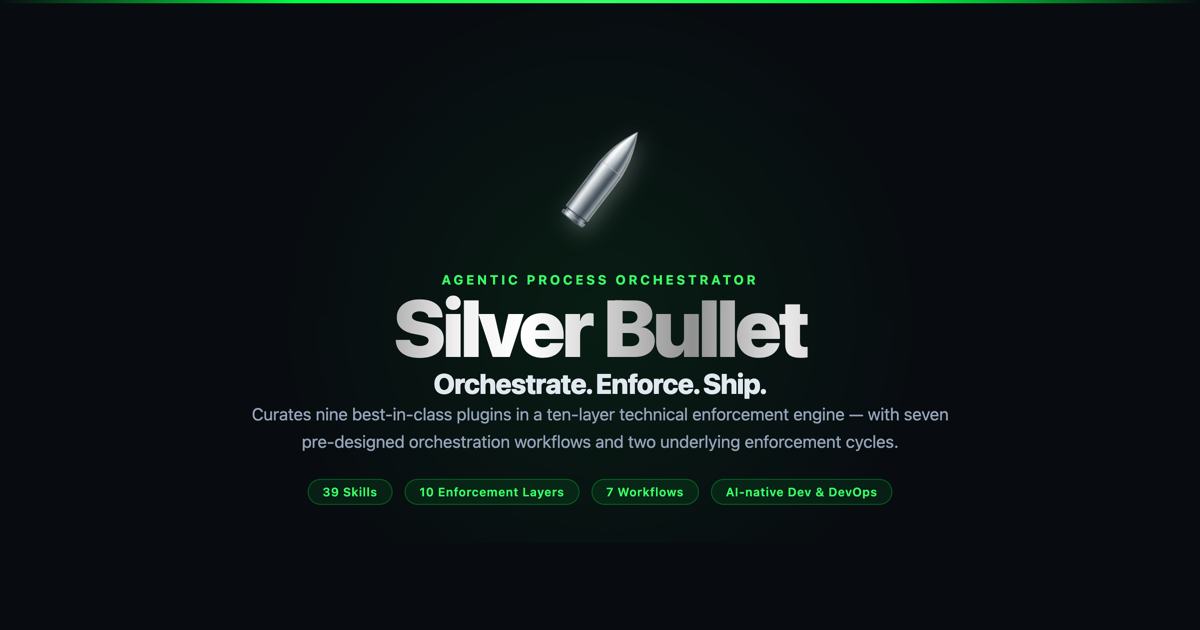
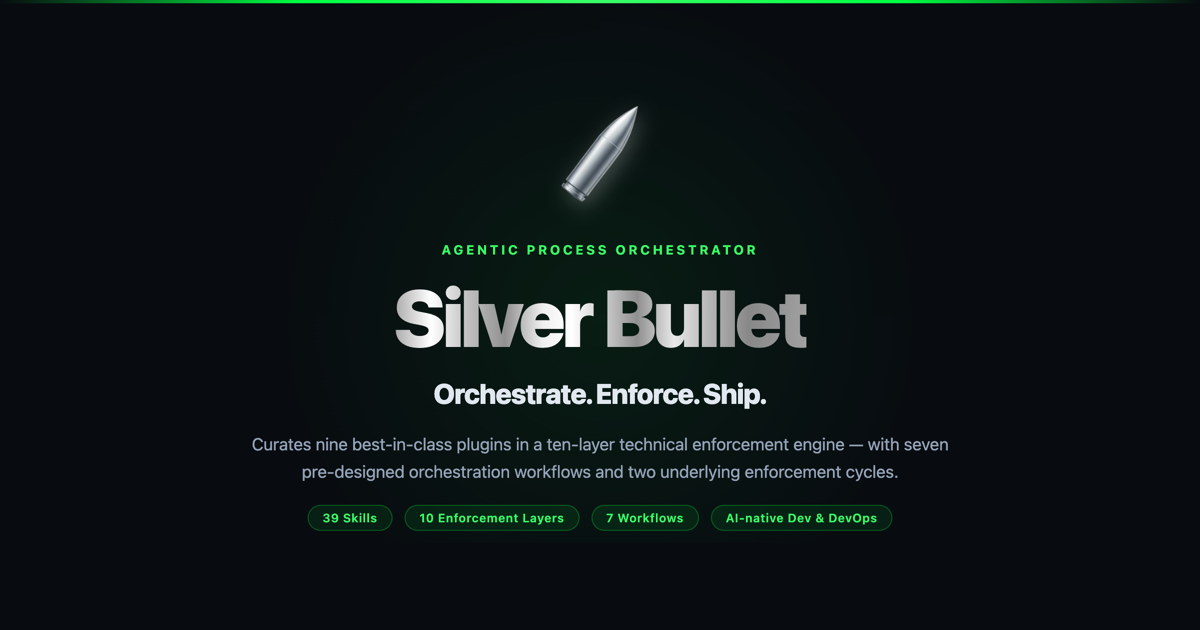
fix(site): increase vertical gaps in OG image
- Make .text a flex column so gap applies between all child elements
- Text gap: 20px between label, title, sub-heading, desc, pills
- Card gap: 28px between bullet and text block

Changed region(s): [[0.2158, 0.3921, 0.8017, 0.8444], [0.4625, 0.181, 0.555, 0.3619]]

diff --git a/site/og-card.html b/site/og-card.html
@@ -35,7 +35,7 @@
     flex-direction:column;
     align-items:center;
     justify-content:center;
-    gap:32px;
+    gap:28px;
     padding:0 80px;
     position:relative;
     z-index:1;
@@ -47,7 +47,7 @@
     flex-shrink:0;
     filter:drop-shadow(3px 6px 10px rgba(255,255,255,.25));
   }
-  .text{width:100%}
+  .text{width:100%;display:flex;flex-direction:column;align-items:center;gap:20px;}
 
   /* Label — like .hero-tagline-caps */
   .label{
@@ -91,7 +91,7 @@
     line-height:1.6;
     color:#94a3b8;
     max-width:720px;
-    margin:0 auto 24px;
+    margin:0;
   }
 
   /* Pills row */
